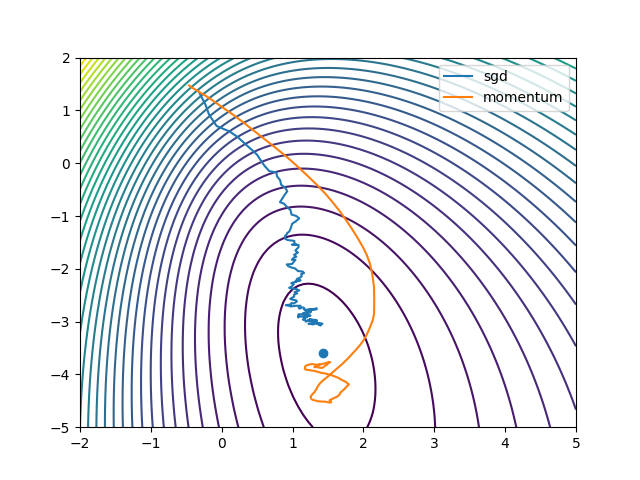
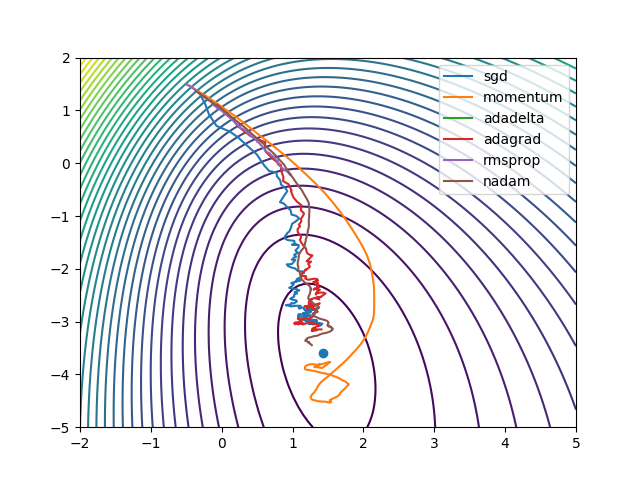
Adds more optimizers in vis

diff --git a/lab1/autonomous/lab1.py b/lab1/autonomous/lab1.py
@@ -410,9 +410,29 @@ if __name__ == '__main__':
     
 	mom = tf.train.MomentumOptimizer(learning_rate=0.075, momentum=0.94)
 	mom_ws = w_trajectory(trX, trY, mom, nbatch=16, niter=200)
+
+	adadelta = tf.train.AdadeltaOptimizer(learning_rate=0.05)
+	adadelta_ws = w_trajectory(trX, trY, adadelta, nbatch=16, niter=200)
+
+	adagrad = tf.train.AdagradOptimizer(learning_rate=0.5)
+	adagrad_ws = w_trajectory(trX, trY, adagrad, nbatch=16, niter=200)
+
+	#adamax = tf.keras.optimizers.Adamax(lr=0.001)
+	#adamax_ws = w_trajectory(trX, trY, adamax, nbatch=16, niter=200)
+
+	rmsprop = tf.train.RMSPropOptimizer(learning_rate=0.01)
+	rmsprop_ws = w_trajectory(trX, trY, rmsprop, nbatch=16, niter=200)
+
+	nadam = tf.contrib.opt.NadamOptimizer(learning_rate=0.07)
+	nadam_ws = w_trajectory(trX, trY, nadam, nbatch=16, niter=200)
     
 	plt.plot(sgd_ws[:, 0, 0], sgd_ws[:, 1, 0], label='sgd')
 	plt.plot(mom_ws[:, 0, 0], mom_ws[:, 1, 0], label='momentum')
+	plt.plot(adadelta_ws[:, 0, 0], adadelta_ws[:, 1, 0], label='adadelta')
+	plt.plot(adagrad_ws[:, 0, 0], adagrad_ws[:, 1, 0], label='adagrad')
+	#plt.plot(adamax_ws[:, 0, 0], adamax_ws[:, 1, 0], label='adamax')
+	plt.plot(rmsprop_ws[:, 0, 0], rmsprop_ws[:, 1, 0], label='rmsprop')
+	plt.plot(nadam_ws[:, 0, 0], nadam_ws[:, 1, 0], label='nadam')
 	plt.legend()
 	plt.ylim([-5, 2])
 	plt.xlim([-2, 5])
